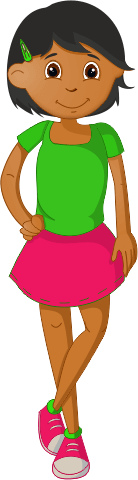
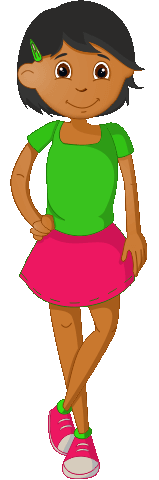
added style to personalization

diff --git a/www/templates/user/user.personalise.view.html b/www/templates/user/user.personalise.view.html
@@ -73,70 +73,84 @@
       </form>
   </ion-content>
 </ion-view> -->
-
 <ion-view class="bg-yellow">
-  <ion-content>
-    <ion-slide-box delegate-handle="slide" show-pager="false" ng-init="userCtrl.disableSwipe()">
-      <ion-slide>
-        <div class="box">
-          <div class="row">
-            <div class="col center">
-              <img style="width: 100%;" src="img/personalise1.png" />
-            </div>
-          </div>
-          <div class="row padding-x-40">
-            <div class="col center">
-              <h1 class="center font-sl" style="color:#48494B;line-height:1.8em">My name is...</h1>
+    <ion-content>
+        <ion-slide-box delegate-handle="slide" show-pager="false" ng-init="userCtrl.disableSwipe()">
+            <ion-slide>
+                <div class="box">
+                    <div class="name-avatar">
+                    </div>
+                    <div class="row padding-x-10">
+                        <div class="col center">
+                            <h2 class="center" style="font-size:2.5em !important;color:#48494B;line-height:1.8em">My name is...</h2>
+                            <div class="col" ng-init="userCtrl.user.name=''">
+                                <div class="row">
+                                    <div class="col font-lg" style="line-height:0.8em;border-bottom:1px solid black;color:#48494B;">{{userCtrl.user.name}}&nbsp;</div>
+                                </div>
+                                <br>
+                                <virtual-keyboard reference="userCtrl.user.name"></virtual-keyboard>
+                                <button ng-disabled="!userCtrl.user.name" class="button button-balanced button-round margin-20 padding-x-40 font-md" ng-click="userCtrl.nextSlide()"><i class="ed-icon lg icon-contain icon-next-2"></i></button>
+                            </div>
+                        </div>
+                    </div>
+                </div>
+            </ion-slide>
+            <ion-slide>
+                <div class="box">
+                    <div class="row padding-20">
+                        <div class="col">
+                            <h1 class="center margin-10">I am a ...</h1>
+                            <div class="row no-padding">
+                                <div class="col text-center no-padding">
+                                    <label for="" class="radio radio-male radio-icon-check" ng-class="{'checked':userCtrl.user.gender=='M'}">
+                                        <!-- <i class="font-xl color-blue icon ion-checkmark-circled"></i> -->
+                                        <input type="radio" name="gender" value="M" ng-model="userCtrl.user.gender">
+                                    </label>
+                                    <div style="padding-left:40px;text-align:left;font-weight:600;" class="font-xl color-balanced">
+                                      BOY
+                                    </div>
+                                </div>
+                                <!-- <div class="radio-graphic-or font-md">or</div> -->
+                                <div class="col text-center no-padding">
+                                    <label for="" class="radio radio-female radio-icon-check" ng-class="{'checked':userCtrl.user.gender=='F'}">
+                                        <!-- <i class="font-xl color-blue icon ion-checkmark-circled"></i> -->
+                                        <input type="radio" name="gender" value="F" ng-model="userCtrl.user.gender">
+                                    </label>
+                                    <div style="padding-right:40px;text-align:right;font-weight:600;" class="font-xl color-balanced">
+                                      GIRL
+                                    </div>
+                                </div>
+                            </div>
+                            <center>
+                              <button ng-disabled="!userCtrl.user.gender" class="button button-balanced button-round margin-20 padding-x-40 font-md" ng-click="userCtrl.nextSlide()"><i class="ed-icon lg icon-contain icon-next-2"></i></button>
+                            </center>
+                        </div>
+                    </div>
+                </div>
+            </ion-slide>
+            <ion-slide>
+                <div class="box">
+                    <div class="row padding-20">
+                        <div class="col">
+                            <center>
+                              <img ng-src="{{userCtrl.user.gender == 'M'?'../img/assets/upperbody-boy.png':'../img/assets/upperbody-girl.png'}}" alt="">
+                            </center>
+                            <h1 class="center">I am in class ...</h1>
+                            <div class="radio-box-container-outer">
+                              <div class="radio-box-container-inner">
+                                <label style="line-height:120px;" class="margin-10 radio radio-box font-sxl bg-pink center color-balanced" ng-repeat="grade in [1,2,3]" ng-class="{'checked':userCtrl.user.grade == grade,'margin-x-70':$index == 0}">{{grade}}
+                                  <input type="radio" name="grade" value="{{grade}}" ng-model="userCtrl.user.grade">
+                                </label>
+                              </div>
+                            </div>
+                            <center>
+                              <button ng-disabled="!userCtrl.user.grade" class="button button-balanced button-round margin-20 padding-x-40 font-md" ng-click="userCtrl.createProfile(userCtrl.user)"><i class="ed-icon lg icon-contain icon-next-2"></i></button>
+                            </center>
 
-            <div class="col" ng-init="userCtrl.user.name=''">
-              <div class="row">
-                <div class="font-sl col-80" style="line-height:0.8em;border-bottom:1px solid black;color:#48494B;">{{userCtrl.user.name}}&nbsp;</div>
-                <div class="col icon-green-cross key" ng-click="userCtrl.user.name=''">
+                        </div>
+                    </div>
                 </div>
-              </div>
-              <br>
-              <virtual-keyboard reference="userCtrl.user.name"></virtual-keyboard>
-              <button ng-disabled="!userCtrl.user.name" class="button button-balanced button-round margin-20 padding-x-40 font-md" ng-click="userCtrl.nextSlide()"><i class="ed-icon lg icon-contain icon-next-2"></i></button>
-            </div>
-          </div>
-        </div>
-      </ion-slide>
-      <ion-slide>
-        <div class="box">
-          <div class="row padding-40">
-            <div class="col">
-              <h1 class="center">Gender</h1>
-              <div class="row no-padding">
-                <div class="col text-center no-padding">
-                  <label for="" class="radio radio-male radio-icon-check" ng-class="{'checked':userCtrl.user.gender=='M'}">
-                    <i class="font-xl color-blue icon ion-checkmark-circled"></i>
-                    <input type="radio" name="gender" value="M" ng-model="userCtrl.user.gender">
-                  </label>
-                </div>
-                <div class="radio-graphic-or font-md">or</div>
-                <div class="col text-center no-padding">
-                  <label for="" class="radio radio-female radio-icon-check" ng-class="{'checked':userCtrl.user.gender=='F'}">
-                    <i class="font-xl color-blue icon ion-checkmark-circled"></i>
-                    <input type="radio" name="gender" value="F" ng-model="userCtrl.user.gender">
-                  </label>
-                </div>
-              </div>
-              <button ng-disabled="!userCtrl.user.gender" class="button button-balanced button-round button-block font-md" ng-click="userCtrl.nextSlide()">Next</button>
-            </div>
-          </div>
-        </div>
-      </ion-slide>
-      <ion-slide>
-        <div class="box">
-          <div class="row padding-40">
-            <div class="col">
-              <h1 class="center">In which class do you study?</h1>
-              <ion-radio ng-model="userCtrl.user.grade" ng-value="$index+1" ng-repeat="grade in [1,2,3]">Class {{grade}}</ion-radio>
-              <button ng-disabled="!userCtrl.user.grade" class="button button-balanced button-round button-block font-md" ng-click="userCtrl.createProfile(userCtrl.user)">Done</button>
-            </div>
-          </div>
-        </div>
-      </ion-slide>
-    </ion-slide-box>
-  </ion-content>
+            </ion-slide>
+        </ion-slide-box>
+    </ion-content>
 </ion-view>

diff --git a/www/templates/map/map.demo.view.html b/www/templates/map/map.demo.view.html
@@ -1,6 +1,6 @@
 <ion-modal-view class="modal-dark">
     <ion-content ng-init="mapCtrl.selected=false" scroll="true">
-        <div class="row height-5">
+        <!-- <div class="row height-5">
             <div class="col"></div>
         </div>
         <div class="row height-40" ng-show="!selectedNode">
@@ -15,8 +15,10 @@
         </div>
         <div class="row height-50" ng-show="!selectedNode">
             <div class="col animation-delay-more animation-fade-in-from-left" style="background:url('img/assets/avatar-{{lessonutils.getGender()=='M'? 'boy' : 'girl'}}.png') no-repeat left center; background-size : auto 100%"></div>
-        </div>
-        <div class="animation-repeat-bounce" ng-show="!selectedNode" ng-click="$emit('openNode', mapCtrl.getNodeProperty('node'))" style="width:{{mapCtrl.getNodeProperty('width')}}px;height:{{mapCtrl.getNodeProperty('height')}}px;position:absolute;left:{{mapCtrl.getNodeProperty('x')}}px;top:{{mapCtrl.getNodeProperty('y')}}px;border-radius:50%;border:3px solid #39B89A;background : url('img/icons/icon-{{mapCtrl.getNodeProperty('type')}}.png') #FCF3D8 no-repeat center center; background-size : auto 50%">
+        </div> -->
+        <!-- <div class="animation-repeat-bounce" ng-show="!selectedNode" ng-click="$emit('openNode', mapCtrl.getNodeProperty('node'))" style="width:{{mapCtrl.getNodeProperty('width')}}px;height:{{mapCtrl.getNodeProperty('height')}}px;position:absolute;left:{{mapCtrl.getNodeProperty('x')}}px;top:{{mapCtrl.getNodeProperty('y')}}px;border-radius:50%;border:3px solid #39B89A;background : url('img/icons/icon-{{mapCtrl.getNodeProperty('type')}}.png') #FCF3D8 no-repeat center center; background-size : auto 50%">
+        </div> -->
+        <div class="animation-repeat-bounce" ng-show="!selectedNode" ng-click="$emit('openNode', mapCtrl.getNodeProperty('node'))" style="width:{{mapCtrl.getNodeProperty('width')}}px;height:{{mapCtrl.getNodeProperty('height')}}px;border-radius:50%;border:3px solid #39B89A;background : url('img/icons/icon-{{mapCtrl.getNodeProperty('type')}}.png') #FCF3D8 no-repeat center center; background-size : auto 50%">
         </div>
     </ion-content>
 </ion-modal-view>

diff --git a/scss/_form.scss b/scss/_form.scss
@@ -91,42 +91,42 @@ input[type=radio].hide{
 }
 .radio > input[type="radio"]{
     visibility: hidden;
+    position:absolute;
 }
 .radio {
     margin: 0 auto;
 }
 
 .radio-male{
-    width: 144px;
-    height: 144px;
+    height: 360px;
     position: relative;
-    background: url('#{$icon-path}/icon-boy.png') no-repeat 0 0;
+    background: url('#{$assets-path}/avatar-boy.png') no-repeat top left;
     display: block;
-    background-size: cover;
-    @include xs-screen{
-      height: 120px;
-      width: 120px;
-    }
+    background-size: contain;
+    opacity: 0.6;
+    // @include xs-screen{
+    //   height: 120px;
+    // }
 }
 .radio-male.checked{
-    background-position: 100% 0 !important;
-    background-size: cover !important;
+    opacity: 1;
 }
 .radio-female{
-    width: 144px;
-    height: 144px;
+    height: 360px;
     position: relative;
-    background: url('#{$icon-path}/icon-girl.png') no-repeat 0 0;
+    background: url('#{$assets-path}/avatar-girl.png') no-repeat top right;
     display: block;
-    background-size: cover;
-    @include xs-screen{
-      height: 120px;
-      width: 120px;
-    }
+    background-size: contain;
+    opacity: 0.6;
+    // @include xs-screen{
+    //   height: 120px;
+    //   width: 120px;
+    // }
 }
 .radio-female.checked{
-    background-position: 100% 0 !important;
-    background-size: cover !important;
+    opacity: 1;
+    // background-position: 100% 0 !important;
+    // background-size: cover !important;
 }
 
 .radio-icon-check .icon{
@@ -171,4 +171,23 @@ input[type=radio].hide{
 
 .input-sm{
   padding: $padding-x*2.5 $padding-x*1.5 !important;
+}
+
+.radio-box{
+  height: 100px;
+  width: 100px;
+  display: inline-block;
+  float: left;
+  border-radius: 10px;
+  box-shadow: rgba(0,0,0,0.3) 0 0 10px;
+}
+
+.radio-box.checked{
+  background-color: #{$selected-color} !important;
+}
+
+.radio-box-container-inner{
+  width: 240px;
+  margin-left: auto;
+  margin-right: auto;
 }

diff --git a/scss/_variables.scss b/scss/_variables.scss
@@ -16,8 +16,9 @@ $brand-blue : #00AFF0;
 $pale : #FCF3D8;
 $neutral : #e4eff2;
 $dark-grey : #4A4A4A;
-$brand-yellow : #FFBC1D;
+$brand-yellow : #F7E69E;
 $yellow : #F7EAA0;
+$selected-color: #FFBC1D;
 $color-list : ("light" : $light, "stable" : $stable, "positive" : $positive, "calm" : $calm, "balanced" : $balanced, "energised" : $energized, "assertive" :$assertive, "royal" : $royal, "dark" :$dark, "brand" : $brand, "neutral" : $neutral, "green" : $brand-green, "pale" : $pale, "brand-yellow": $brand-yellow, "pink" : $brand-pink, "transparent" : transparent, "grey" : $brand-grey, "orange" : $brand-orange, "blue" : $brand-blue, "white" : $brand-white, "yellow": $yellow);
 $font-size : ("sxl" : 5em, "sl" : 3em, "xl" : 2em,"lg" : 1.75em, "md" : 1.5em, "sm" : 1.25em, "xs" : 1em);
 $height-list : ("5":5%,"10":10%,"15":15%,"20":20%,"24":24%,"25":25%,"30":30%,"40":40%,"50":50%,"60":60%,"70":70%,"80":80%,"90":90%,"100":100%);
@@ -65,6 +66,6 @@ $quiz-subfooter-height: 85px;
 $quiz-footer-large-height: 11%;
 $feedback-image-incorrect : '../img/incorrect.png';
 $feedback-image-correct : '../img/correct.png';
-
+$assets-path : '../img/assets';
 $xs-width: 390px;
 $button-sm : 30px;

diff --git a/www/templates/common/common.keyboard.view.html b/www/templates/common/common.keyboard.view.html
@@ -3,11 +3,16 @@
     display: inline-block;
     background-color: #FCF8DB;
     color: #1AB89A;
-    padding: 5px;
+    line-height: initial !important;
+    padding-top: 8px;
     border-radius: 5px;
-    margin: 3px;
+    margin-left: 1px;
+    margin-right: 1px;
+    margin-bottom: 2px;
+    margin-top: 2px;
     font-size: 24px;
     font-weight: 800;
+    width: 300px;
   }
   .key:active {
     background-color: rgb(167, 210, 237);
@@ -31,5 +36,5 @@
 </div>
 <div class="key-row">
   <a class="key" on-tap="keyCtrl.input(' ')">SPACE</a>
-  <a class="key" on-tap="keyCtrl.erase()">DELETE</a>
+  <a class="key" on-tap="keyCtrl.erase()"><i class="ion-arrow-left-c"></i></a>
 </div>

diff --git a/scss/_common.scss b/scss/_common.scss
@@ -121,3 +121,16 @@ meter::-webkit-meter-even-less-good-value {
   position: relative;
   z-index: 14;
 }
+
+.name-avatar{
+  background: url('../img/assets/name-boy.png'),url('../img/assets/name-girl.png');
+  background-repeat: no-repeat;
+  background-position: top left, top right;
+  height: 200px;
+  margin-top: 20px;
+}
+
+.radio-box-container{
+  margin-left: auto;
+  margin-right: auto;
+}

diff --git a/scss/_global.scss b/scss/_global.scss
@@ -54,7 +54,7 @@ $value in ('0':0px, '10':10px, '20':20px, '30':30px, '40':40px, '50':50px, '60':
   }
 }
 @each $size,
-$value in ('0':0px, '10':10px, '20':20px, '30':30px, '40':40px, '50':50px, '60':60px) {
+$value in ('0':0px, '10':10px, '20':20px, '30':30px, '40':40px, '50':50px, '60':60px, '70':70px, '80':80px) {
   .margin-#{$size} {
     margin: $value !important;
   }
